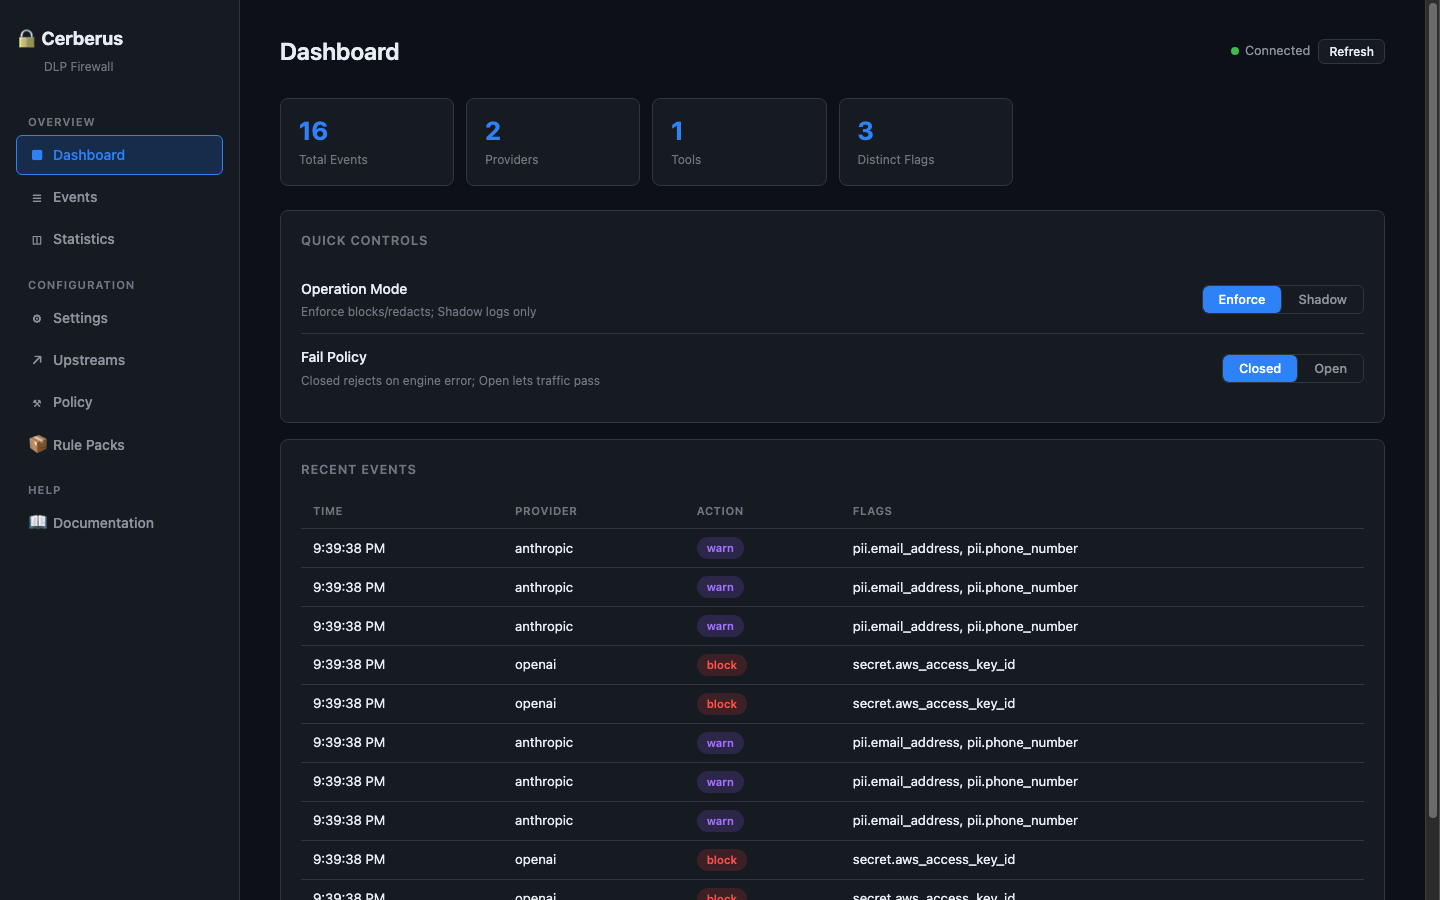
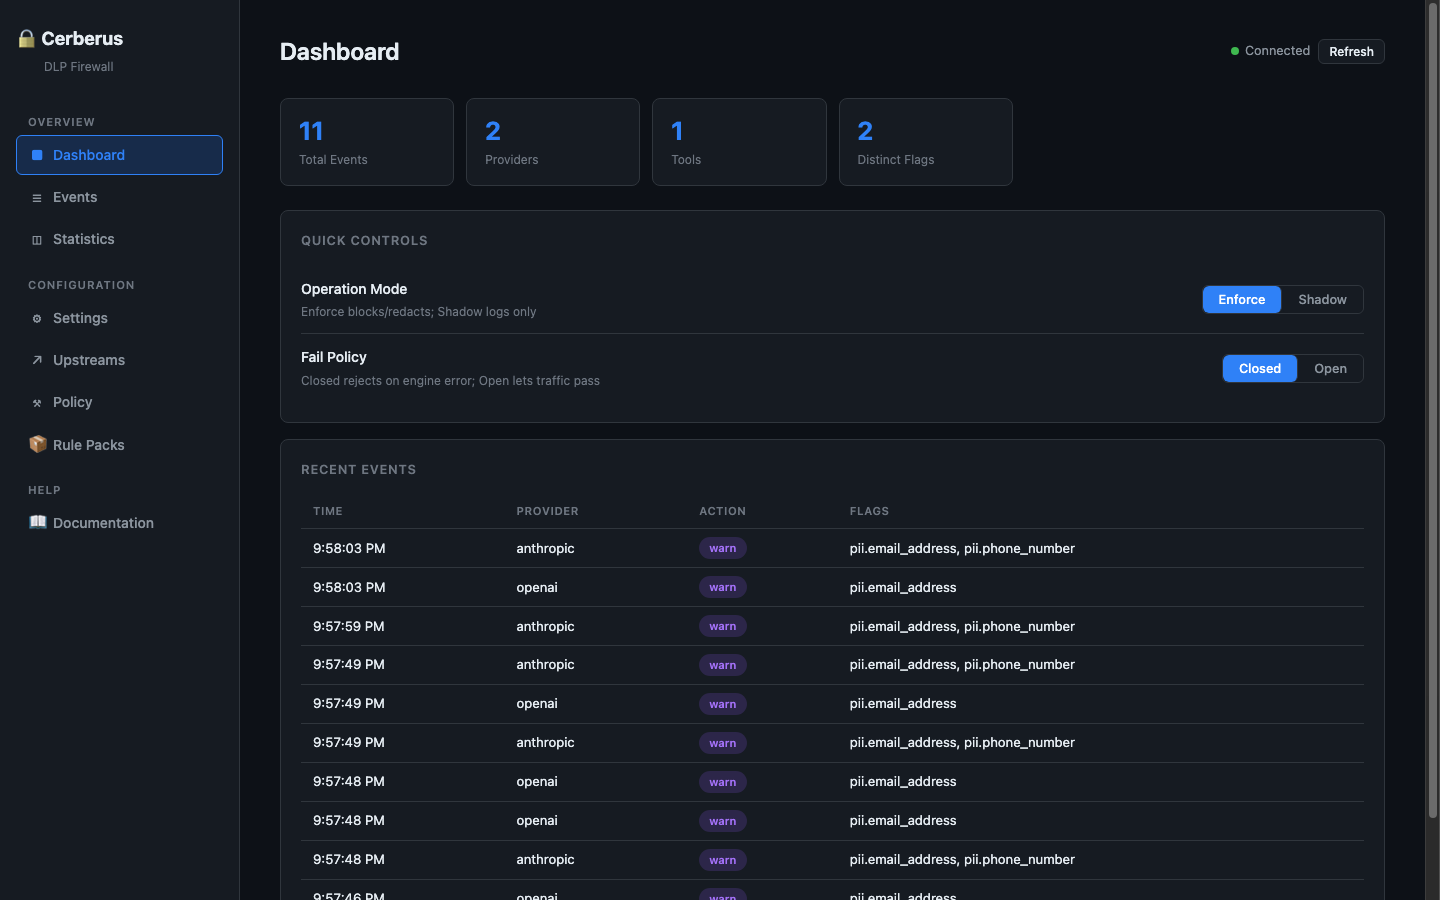
fix: hashchange listener for tab switching + retake screenshots
The hash-based tab navigation was not working in headless Chrome
because navigating between hashes on the same page does not reload
the JS. Added a hashchange event listener that calls switchTab when
the URL hash changes, so tabs switch correctly even without a page
reload.

Screenshots retaken via Chrome DevTools Protocol:
- Each tab shows different content (verified by MD5)
- No auth overlay (server runs without admin_token)
- Page-only capture at 1440x900, no browser chrome
- Real audit data: 11 events from 2 providers

diff --git a/crates/cerberus-proxy/dashboard.html b/crates/cerberus-proxy/dashboard.html
@@ -1626,10 +1626,12 @@ if (tokenInput) {
 
 // Init: read the initial tab from the URL hash (enables direct linking).
 const validTabs = ['overview', 'events', 'stats', 'config', 'upstreams', 'policy', 'packs', 'docs'];
-const initialTab = location.hash ? location.hash.slice(1) : 'overview';
-if (validTabs.includes(initialTab)) {
-  switchTab(initialTab);
+function applyHash() {
+  const tab = location.hash ? location.hash.slice(1) : 'overview';
+  if (validTabs.includes(tab)) switchTab(tab);
 }
+applyHash();
+window.addEventListener('hashchange', applyHash);
 fillActionSelect('cat-action');
 fillActionSelect('rule-action');
 loadData();
